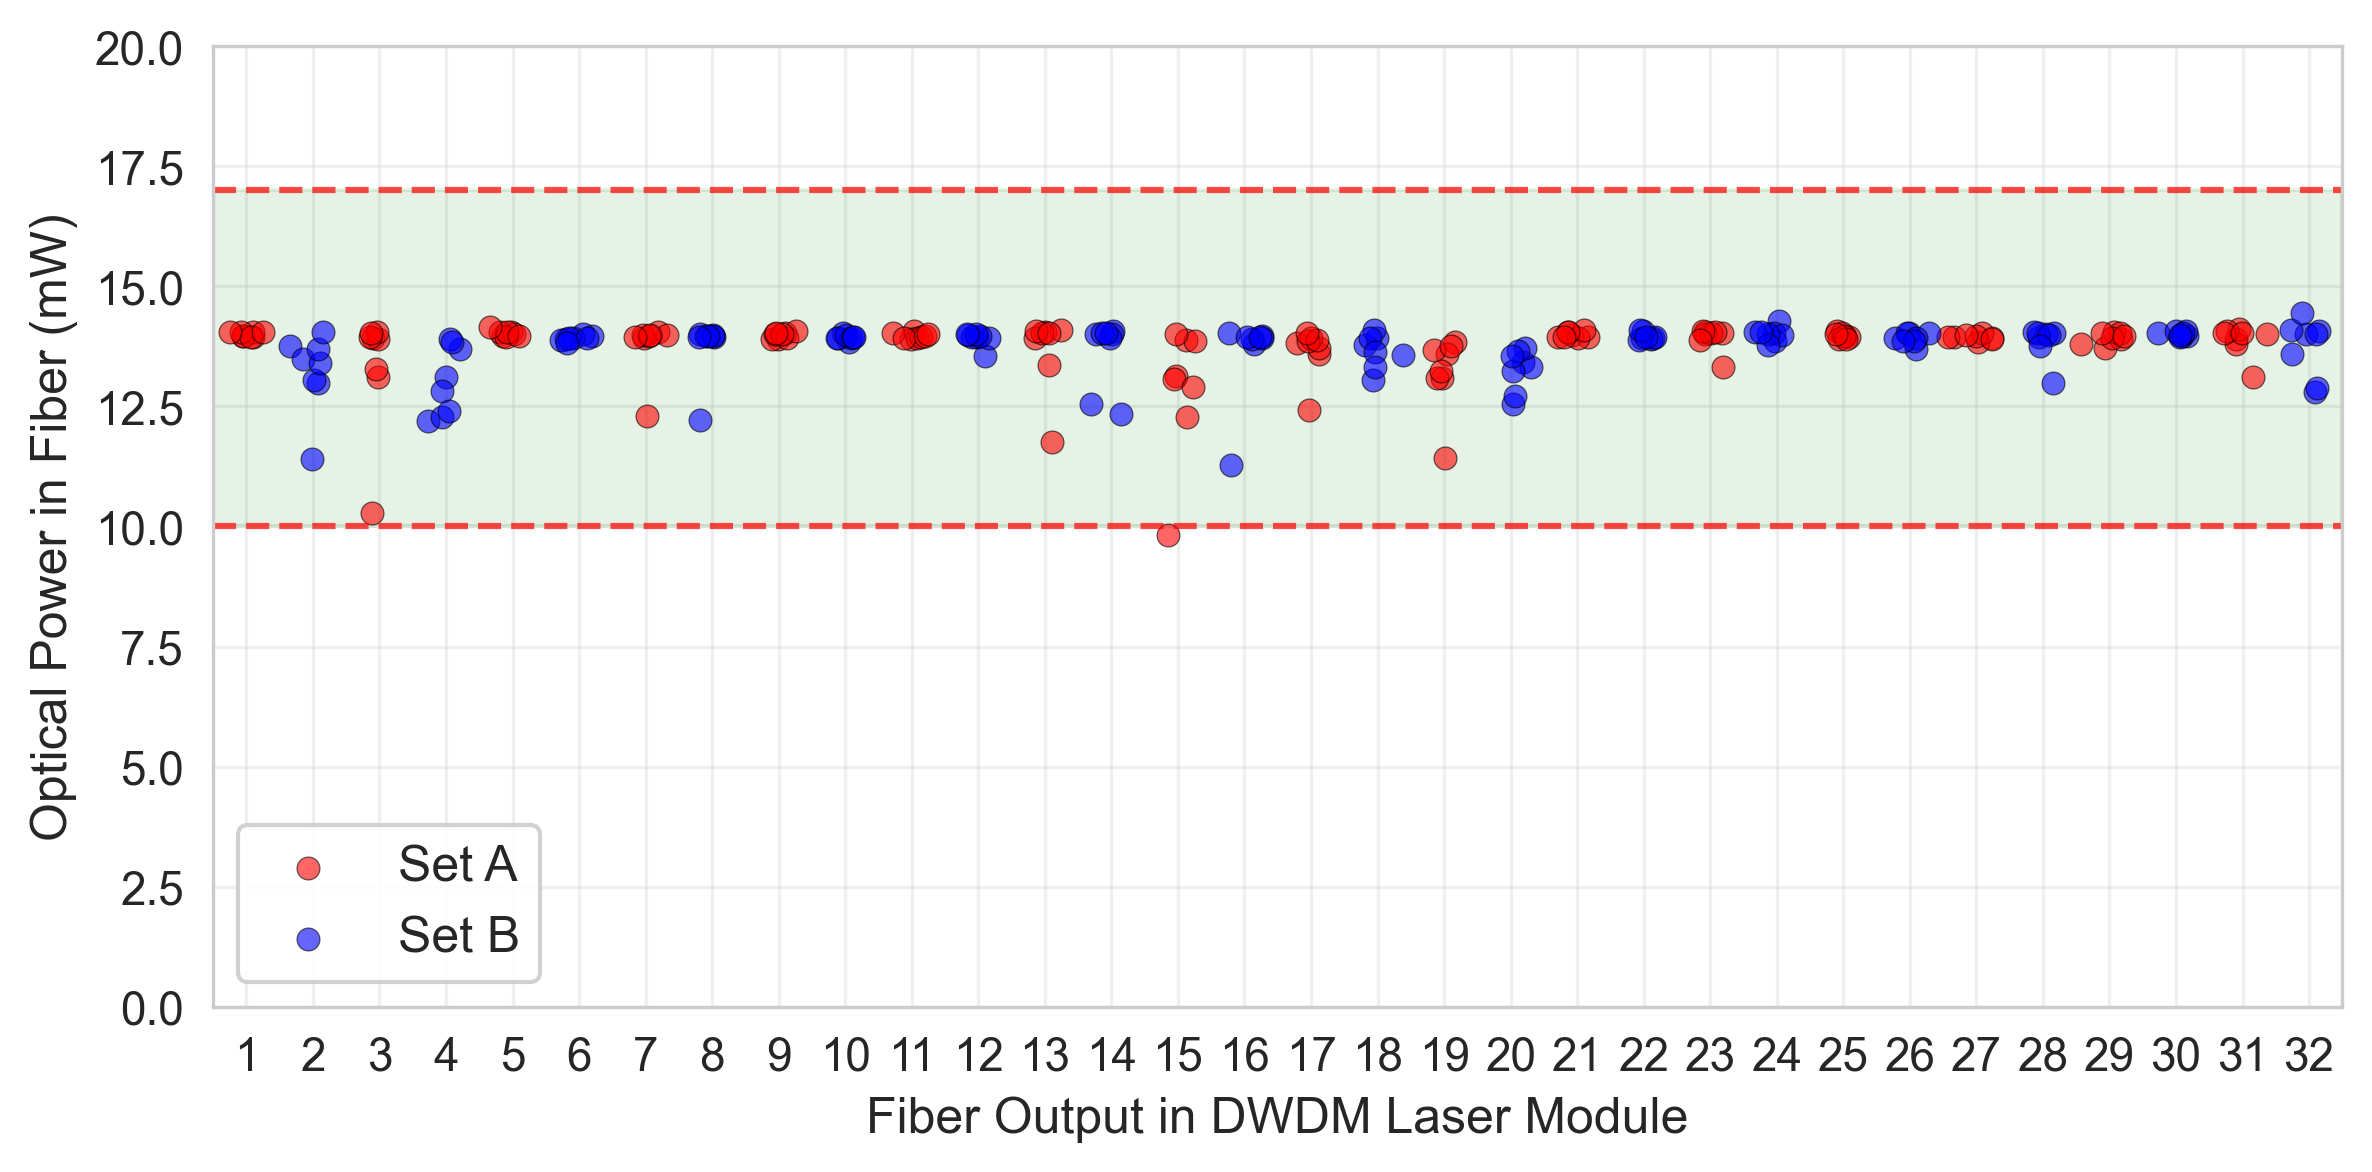
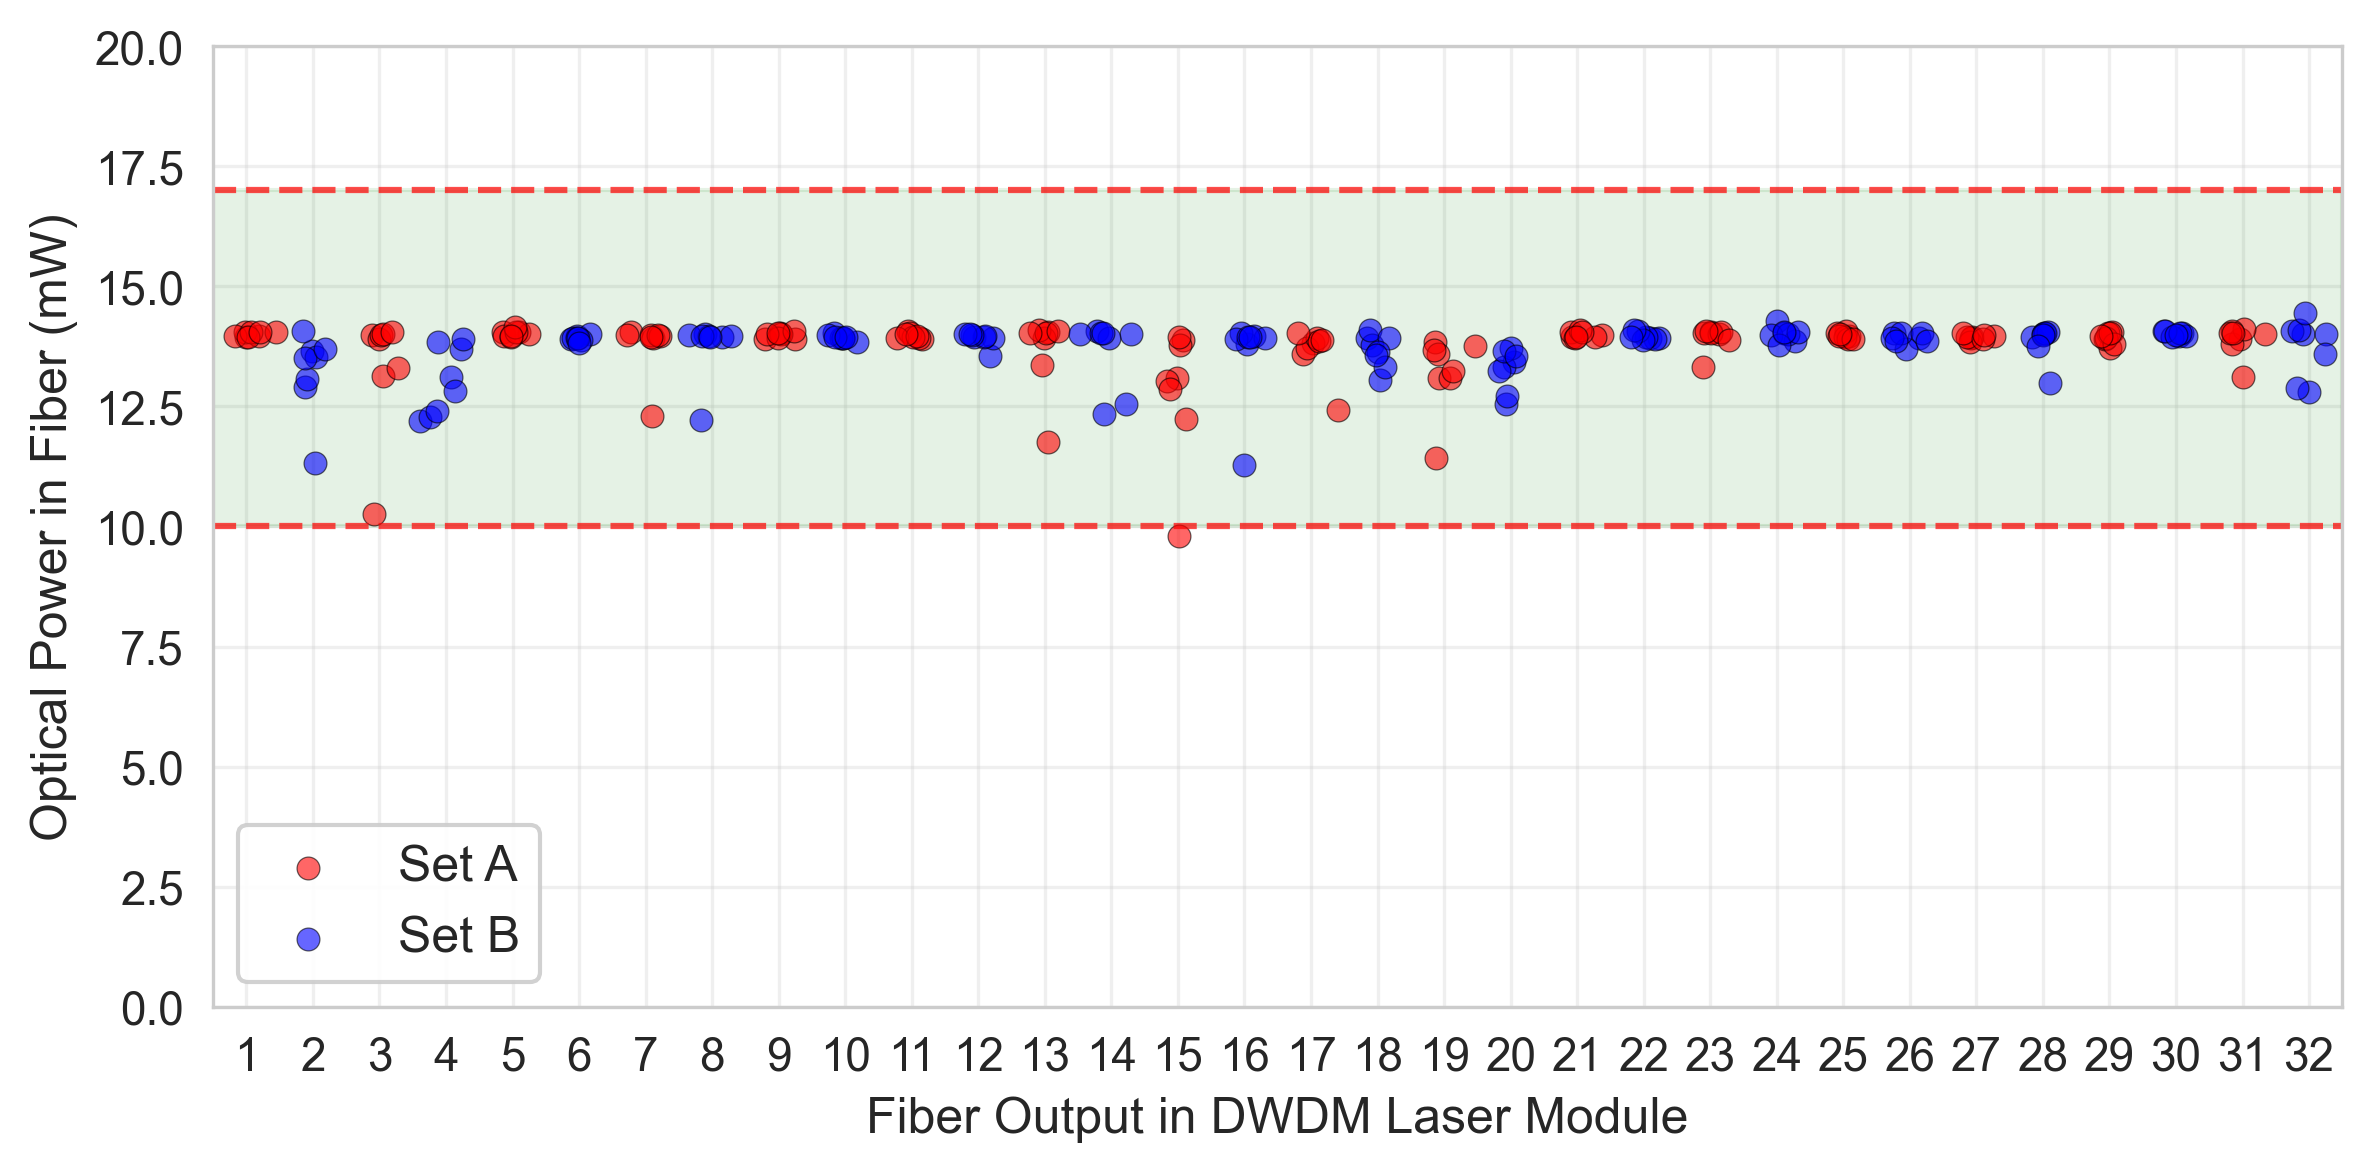
Revert CSV changes for 30C analysis, add dBm plot, and update OFC plot formatting
- Reverted CSV data replacement for fibers 2, 3, 15 in 30C analysis
- Added new optical_power_dBm_30C.png plot (0-15 dBm range)
- Increased font sizes 2x in OFC plots (12→24 for labels, 10→20 for ticks/legend)
- Updated x-axis ticks: 0,24,48,72,96 hrs for normal plots, 46,47,48 hrs for zoomed plots
- All plots generated and saved successfully

diff --git a/ips_clm/ips_clm_evt_ofc/analysis_src/module_analysis.py b/ips_clm/ips_clm_evt_ofc/analysis_src/module_analysis.py
@@ -5707,23 +5707,24 @@ class temperature_aggressors_2:
             ax2.plot(temp_hours, temp_values, color='red', linewidth=2, alpha=0.6,
                     linestyle='--', label='Case Temp')
             
-            ax.set_xlabel('Time (hours)', fontsize=12)
-            ax.set_ylabel('Frequency Error (GHz)', fontsize=12, color='black')
-            ax2.set_ylabel('Temperature (°C)', fontsize=12, color='red')
+            ax.set_xlabel('Time (hours)', fontsize=24)
+            ax.set_ylabel('Frequency Error (GHz)', fontsize=24, color='black')
+            ax2.set_ylabel('Temperature (°C)', fontsize=24, color='red')
             ax.set_ylim(-100, 100)
             ax.set_xlim(46, 48)
-            ax2.tick_params(axis='y', labelcolor='red')
+            ax.set_xticks([46, 47, 48])  # X-axis ticks at 46, 47, 48 hours
+            ax2.tick_params(axis='y', labelcolor='red', labelsize=20)
             
             ax.axhline(y=20, color='red', linestyle=':', linewidth=1.5, alpha=0.3)
             ax.axhline(y=-20, color='red', linestyle=':', linewidth=1.5, alpha=0.3)
             ax.axhspan(-20, 20, color='green', alpha=0.05)
             
-            ax.set_title(f'Tile {tile_id}', fontsize=10, fontweight='bold')
-            ax.tick_params(labelsize=10)
+            ax.set_title(f'Tile {tile_id}', fontsize=20, fontweight='bold')
+            ax.tick_params(labelsize=20)
             ax.grid(True, alpha=0.3)
             
             # Only show temperature legend
-            ax2.legend(loc='best', fontsize=10)
+            ax2.legend(loc='best', fontsize=20)
         
         # Hide unused subplots
         for plot_idx in range(len(tile_ids), 16):
@@ -5793,18 +5794,18 @@ class temperature_aggressors_2:
                                color=colors[ch_idx], linewidth=1.0, alpha=0.7,
                                marker='o', markersize=2)
             
-            ax.set_xlabel('Time (hours)', fontsize=12)
-            ax.set_ylabel('Power in fiber (dBm)', fontsize=12)
+            ax.set_xlabel('Time (hours)', fontsize=24)
+            ax.set_ylabel('Power in fiber (dBm)', fontsize=24)
             ax.set_ylim(9, 13)
             ax.set_xlim(0, 96)
-            ax.set_xticks(np.arange(0, 97, 12))
+            ax.set_xticks([0, 24, 48, 72, 96])  # X-axis ticks at 0, 24, 48, 72, 96 hours
             
             ax.axhline(y=10.0, color='red', linestyle='--', linewidth=1.5, alpha=0.7)
             ax.axhline(y=12.3, color='red', linestyle='--', linewidth=1.5, alpha=0.7)
             ax.axhspan(10.0, 12.3, color='green', alpha=0.05)
             
-            ax.set_title(f'Tile {tile_id}', fontsize=10, fontweight='bold')
-            ax.tick_params(labelsize=10)
+            ax.set_title(f'Tile {tile_id}', fontsize=20, fontweight='bold')
+            ax.tick_params(labelsize=20)
             ax.grid(True, alpha=0.3)
         
         # Hide unused subplots
@@ -5914,18 +5915,18 @@ class temperature_aggressors_2:
                                color=colors[ch_idx], linewidth=1.0, alpha=0.7,
                                marker='o', markersize=2)
             
-            ax.set_xlabel('Time (hours)', fontsize=12)
-            ax.set_ylabel('Frequency Error (GHz)', fontsize=12)
+            ax.set_xlabel('Time (hours)', fontsize=24)
+            ax.set_ylabel('Frequency Error (GHz)', fontsize=24)
             ax.set_ylim(-100, 100)
             ax.set_xlim(0, 96)
-            ax.set_xticks(np.arange(0, 97, 12))
+            ax.set_xticks([0, 24, 48, 72, 96])  # X-axis ticks at 0, 24, 48, 72, 96 hours
             
             ax.axhline(y=20, color='red', linestyle=':', linewidth=1.5, alpha=0.5)
             ax.axhline(y=-20, color='red', linestyle=':', linewidth=1.5, alpha=0.5)
             ax.axhspan(-20, 20, color='green', alpha=0.05)
             
-            ax.set_title(f'Tile {tile_id}', fontsize=10, fontweight='bold')
-            ax.tick_params(labelsize=10)
+            ax.set_title(f'Tile {tile_id}', fontsize=20, fontweight='bold')
+            ax.tick_params(labelsize=20)
             ax.grid(True, alpha=0.3)
         
         # Hide unused subplots
@@ -5976,30 +5977,7 @@ class temperature_aggressors_2:
         print(f"Tiles: {sorted(df_last['tile_id'].unique())}")
         print(f"Banks: {df_last['bank_type'].unique()}")
         
-        # Load CSV data for specific fibers (2, 3, 15) replacement
-        csv_file = self.base_path / 'temperature_aggressors' / 'optical_wavemeter_loop_20251010T213800367Z_e7390a1b-5b91-42b7-ad23-f00f82fc19a2.csv'
-        if csv_file.exists():
-            print("\nReplacing data for Fibers 2, 3, and 15 from CSV file...")
-            df_csv = pd.read_csv(csv_file)
-            last_cycle_csv = df_csv['cycle_number'].max()
-            df_csv_last = df_csv[df_csv['cycle_number'] == last_cycle_csv]
-            
-            # Replace data for Fiber 2 (Tile 0, BANK_B), Fiber 3 (Tile 1, BANK_A), Fiber 15 (Tile 7, BANK_A)
-            replace_tiles = [(0, 'BANK_B'), (1, 'BANK_A'), (7, 'BANK_A')]
-            for tile_id, bank_type in replace_tiles:
-                # Remove old data
-                df_last = df_last[~((df_last['tile_id'] == tile_id) & (df_last['bank_type'] == bank_type))]
-                # Add new data from CSV
-                new_row = df_csv_last[(df_csv_last['tile_id'] == tile_id) & (df_csv_last['bank_type'] == bank_type)]
-                if len(new_row) > 0:
-                    df_last = pd.concat([df_last, new_row], ignore_index=True)
-                    fiber_map = {(0, 'BANK_B'): 2, (1, 'BANK_A'): 3, (7, 'BANK_A'): 15}
-                    fiber_num = fiber_map[(tile_id, bank_type)]
-                    print(f"  ✓ Replaced Fiber {fiber_num} (Tile {tile_id}, {bank_type})")
-        else:
-            print(f"\nWarning: CSV file not found at {csv_file}")
-        
-        # Parse pic_mpd_value arrays and convert to dBm
+        # Parse pic_mpd_value arrays and convert to mW
         data_to_plot = []
         
         for idx, row in df_last.iterrows():
@@ -6119,8 +6097,61 @@ class temperature_aggressors_2:
         
         print(f"  ✓ Plot saved: optical_power_30C.png")
         print(f"  Location: {output_dir}")
+        
+        # Create dBm plot
+        self._plot_30C_power_dBm(df_plot, output_dir)
+        
         print("\n30C Operation Analysis Complete!")
         print("="*80)
+    
+    def _plot_30C_power_dBm(self, df_plot, output_dir):
+        """
+        Create optical power plot in dBm (0-15 dBm).
+        """
+        # Create the plot
+        sns.set_style("whitegrid")
+        fig, ax = plt.subplots(figsize=(8, 4))
+        
+        # Define colors
+        bank_colors = {'BANK_A': 'red', 'BANK_B': 'blue'}
+        bank_labels = {'BANK_A': 'Set A', 'BANK_B': 'Set B'}
+        
+        # Plot for each bank - convert to dBm
+        for bank in ['BANK_A', 'BANK_B']:
+            df_bank = df_plot[df_plot['bank_type'] == bank]
+            
+            # Add jitter to fiber_num for better visibility
+            x_jitter = np.random.normal(0, 0.15, size=len(df_bank))
+            x = df_bank['fiber_num'].values + x_jitter
+            
+            # Convert mW to dBm: dBm = 10 * log10(mW)
+            y_dbm = 10 * np.log10(df_bank['pic_mpd_value_mw'].values)
+            
+            ax.scatter(x, y_dbm, color=bank_colors[bank], alpha=0.6, s=30, 
+                      label=bank_labels[bank], edgecolors='black', linewidth=0.3)
+        
+        # Labels and formatting (no title)
+        ax.set_xlabel('Fiber Output in DWDM Laser Module', fontsize=12)
+        ax.set_ylabel('Optical Power in Fiber (dBm)', fontsize=12)
+        ax.legend(fontsize=12, framealpha=0.9)
+        ax.grid(True, alpha=0.3)
+        ax.tick_params(labelsize=11)
+        
+        # Set x-axis to show fiber numbers 1-32
+        ax.set_xticks(range(1, 33))
+        ax.set_xlim(0.5, 32.5)
+        
+        # Set y-axis from 0 to 15 dBm
+        ax.set_ylim(0, 15)
+        
+        plt.tight_layout()
+        
+        # Save the plot
+        output_path = output_dir / 'optical_power_dBm_30C.png'
+        plt.savefig(output_path, dpi=300, bbox_inches='tight')
+        plt.close()
+        
+        print(f"  ✓ Plot saved: optical_power_dBm_30C.png")
     
     def analyze_30C_freq_error(self):
         """
@@ -6151,23 +6182,6 @@ class temperature_aggressors_2:
         df_reference = df_30c[df_30c['cycle_number'] == first_cycle]
         print(f"Reference cycle_number: {first_cycle}")
         
-        # Load CSV data for reference wavelengths (fibers 2, 3, 15)
-        csv_file = self.base_path / 'temperature_aggressors' / 'optical_wavemeter_loop_20251010T213800367Z_e7390a1b-5b91-42b7-ad23-f00f82fc19a2.csv'
-        if csv_file.exists():
-            df_csv = pd.read_csv(csv_file)
-            first_cycle_csv = df_csv['cycle_number'].min()
-            df_csv_reference = df_csv[df_csv['cycle_number'] == first_cycle_csv]
-            
-            # Replace reference data for specific tiles
-            replace_tiles = [(0, 'BANK_B'), (1, 'BANK_A'), (7, 'BANK_A')]
-            for tile_id, bank_type in replace_tiles:
-                # Remove old reference data
-                df_reference = df_reference[~((df_reference['tile_id'] == tile_id) & (df_reference['bank_type'] == bank_type))]
-                # Add new reference data from CSV
-                new_row = df_csv_reference[(df_csv_reference['tile_id'] == tile_id) & (df_csv_reference['bank_type'] == bank_type)]
-                if len(new_row) > 0:
-                    df_reference = pd.concat([df_reference, new_row], ignore_index=True)
-        
         # Store reference wavelengths for each tile and bank
         ref_wavelengths = {}
         for idx, row in df_reference.iterrows():
@@ -6192,25 +6206,6 @@ class temperature_aggressors_2:
         print(f"Data shape for last cycle: {df_last.shape}")
         print(f"Tiles: {sorted(df_last['tile_id'].unique())}")
         print(f"Banks: {df_last['bank_type'].unique()}")
-        
-        # Replace data for Fibers 2, 3, and 15 from CSV file
-        if csv_file.exists():
-            print("\nReplacing data for Fibers 2, 3, and 15 from CSV file...")
-            last_cycle_csv = df_csv['cycle_number'].max()
-            df_csv_last = df_csv[df_csv['cycle_number'] == last_cycle_csv]
-            
-            # Replace data for Fiber 2 (Tile 0, BANK_B), Fiber 3 (Tile 1, BANK_A), Fiber 15 (Tile 7, BANK_A)
-            replace_tiles = [(0, 'BANK_B'), (1, 'BANK_A'), (7, 'BANK_A')]
-            for tile_id, bank_type in replace_tiles:
-                # Remove old data
-                df_last = df_last[~((df_last['tile_id'] == tile_id) & (df_last['bank_type'] == bank_type))]
-                # Add new data from CSV
-                new_row = df_csv_last[(df_csv_last['tile_id'] == tile_id) & (df_csv_last['bank_type'] == bank_type)]
-                if len(new_row) > 0:
-                    df_last = pd.concat([df_last, new_row], ignore_index=True)
-                    fiber_map = {(0, 'BANK_B'): 2, (1, 'BANK_A'): 3, (7, 'BANK_A'): 15}
-                    fiber_num = fiber_map[(tile_id, bank_type)]
-                    print(f"  ✓ Replaced Fiber {fiber_num} (Tile {tile_id}, {bank_type})")
         
         # Parse wavelength_nm and calculate frequency error
         data_to_plot = []
